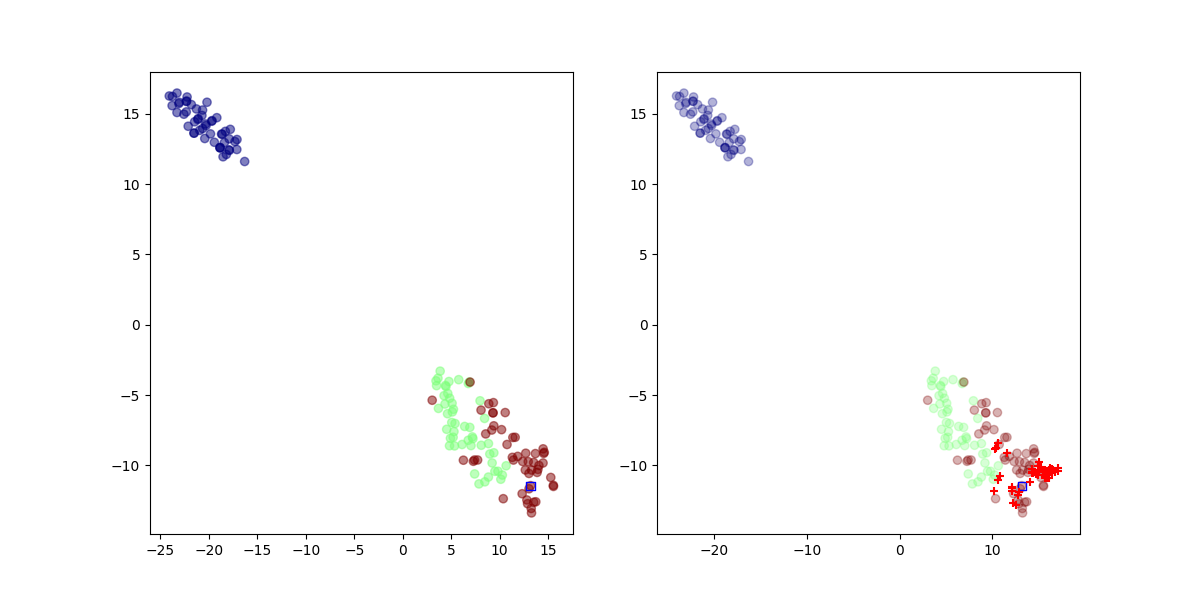
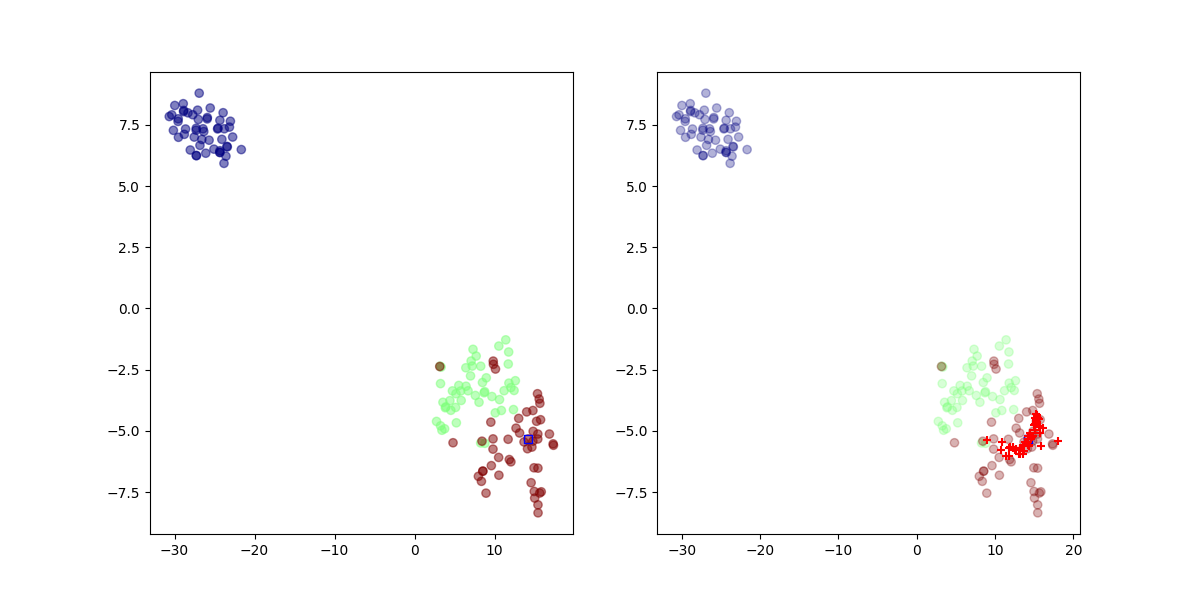
WIP test sample for iris and digits

diff --git a/sample_tsne.py b/sample_tsne.py
@@ -144,16 +144,15 @@ def plot(Y, y_samples, selected_idx=[], labels=None, out_name="noname00"):
 
 
 if __name__ == "__main__":
-    n_samples = 50  # number of points to sample
+    n_samples = 25  # number of points to sample
     sigma_HD = 0.5  # larger of Gaussian in HD
     sigma_LD = 1  # larger of Gaussian in LD
     N_max = 200  # maximum number of data points for testing only
-    dataset_name = "iris"
+    dataset_name = "digits"
     plot_dir = "./plots"
     debug_level = 0
 
-    # TODO check stable of sampling.
-    # E.g., seed 1024 works well for iris, 42 for digits
+    # TODO check stable of sampling. (e.g. seed 1024 iris, 42 digits)
 
     # basic params to run tsne the first time
     tsne_hyper_params = dict(perplexity=30, n_iter=1500, random_state=42, verbose=debug_level)
